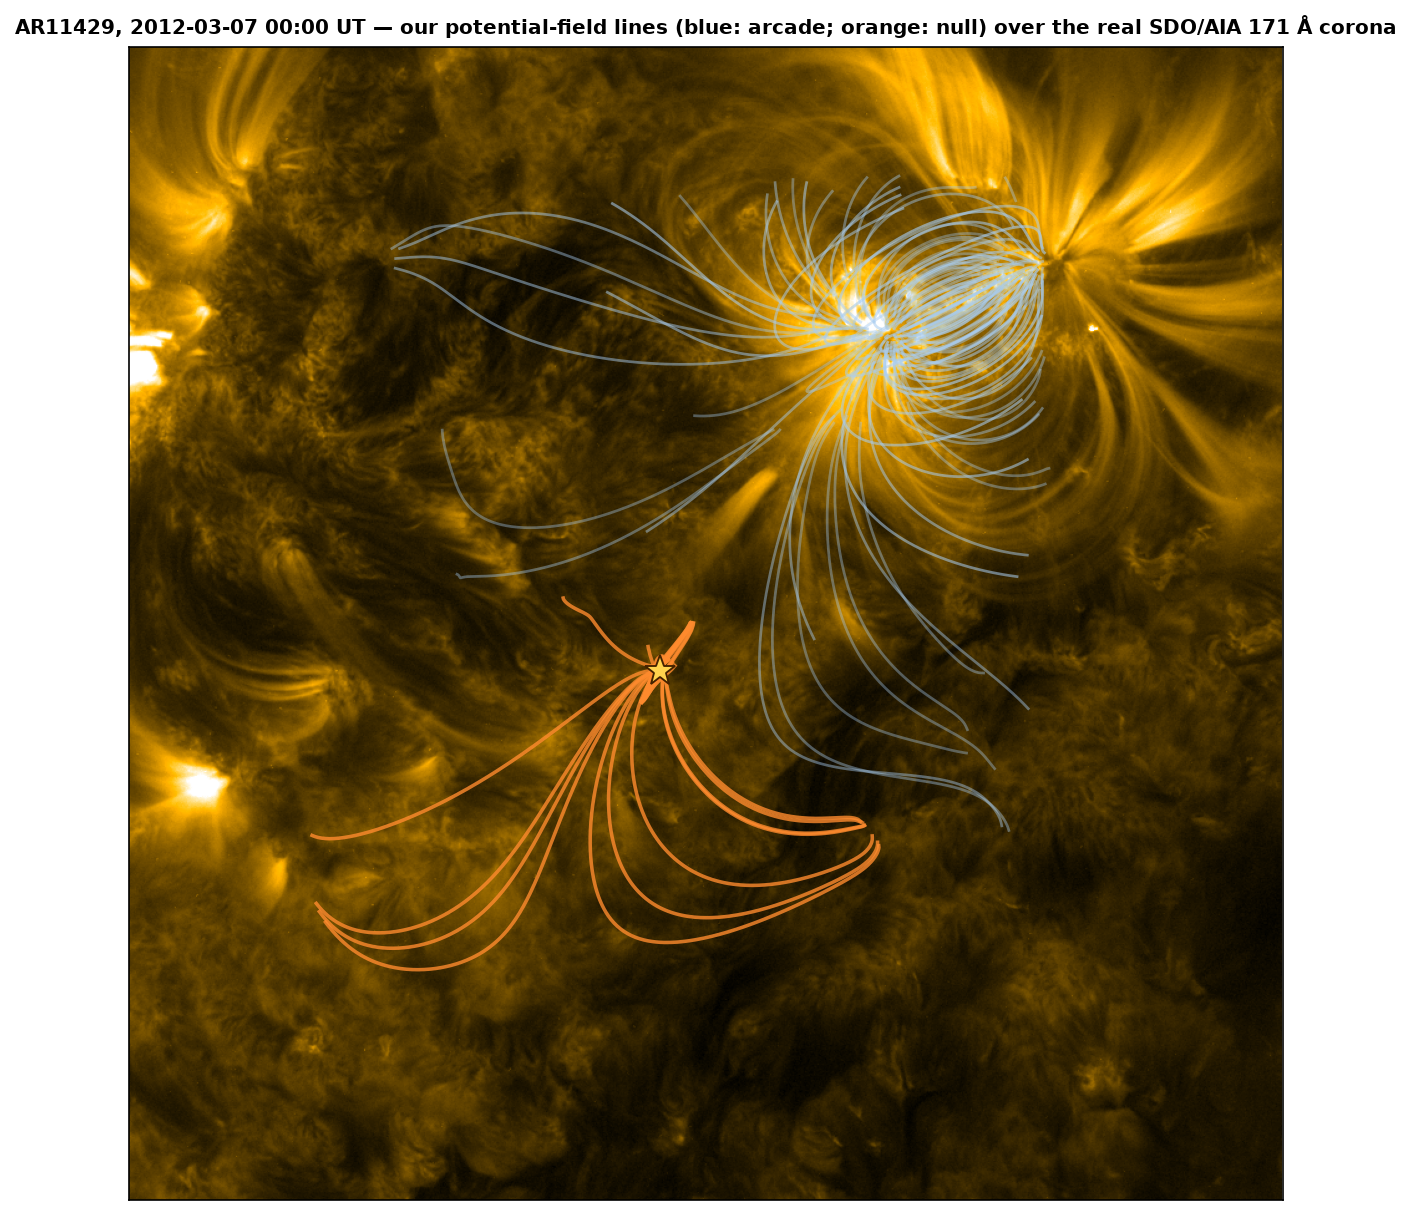
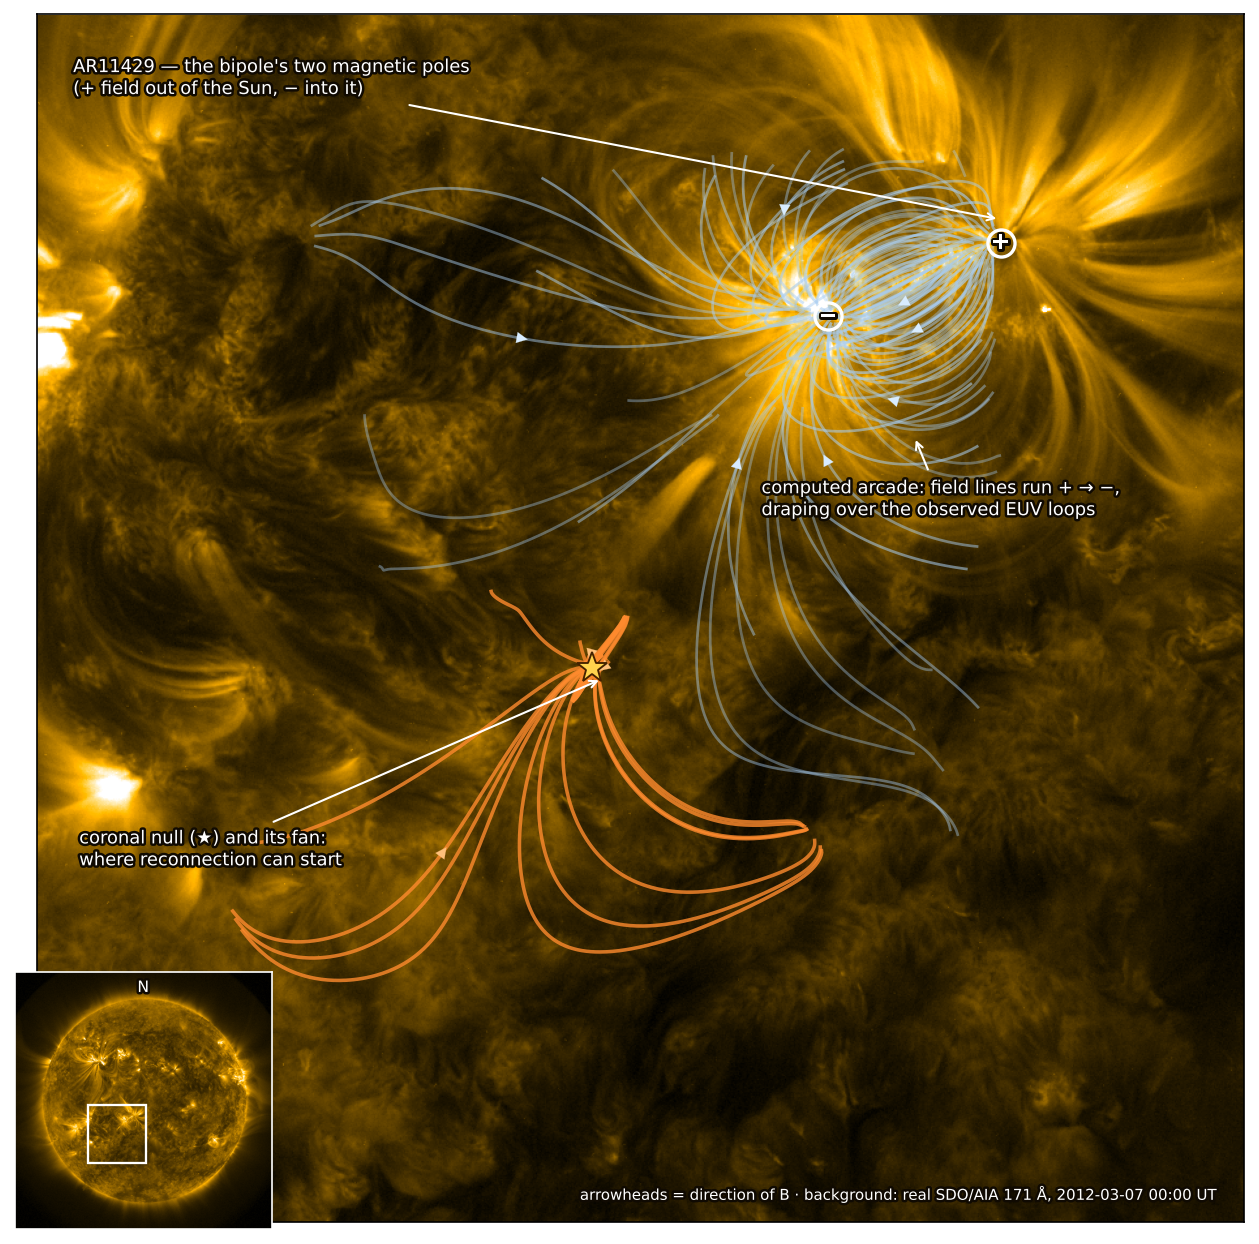
research+posts: informative pass -- poles, arrows, locator; skeleton lines re-rooted
Per user direction, four upgrades:
(1) SKELETON fixed: the arcade is traced in the flux-centred volume and
embedded through its own tangent map (make_embed is now parametric, one
anchor per window) -- the loops root ON the sunspot group instead of being
displaced by the null-centred window whose core flux sat at the edge.
(2) STATIC AIA OVERLAY made self-explanatory: in-plot title removed (the
caption below carries it); the bipole's two magnetic poles marked at their
flux-weighted centroids (circled +/-, + field out of the Sun); arrowheads on
a sample of lines giving the direction of B (running + to -); three leader
annotations (poles, arcade-vs-EUV-loops, the null and its fan as the place
reconnection can start); a full-disk locator inset showing where on the Sun
the frame sits (N up); micro-caption bottom-right.
(3) GIF: in-frame title removed (textual caption below suffices); light
poles and sparse field-direction arrows added -- deliberately less rich than
the static plot; timestamps and flare labels stay.
(4) The embedded YouTube video is gone; the GIF caption carries a footnote
link to the full cinematic sequence instead. Stray tag fixed; Part 6
validates (9/9 figures, no iframes).

diff --git a/research/preferred-directions/scripts/render_real_assets.py b/research/preferred-directions/scripts/render_real_assets.py
@@ -226,22 +226,27 @@ def skeleton(fast=False):
     true height scale), field lines occlusion-culled, null close-up inset."""
     from scipy.ndimage import zoom, map_coordinates, gaussian_filter
     bz = dict(load_magnetograms())["2012-03-07"]
-    # null-recentered survey volume: the null sits mid-box, so its lines have room
-    # in every direction before the honest wall fade (see _ar11429_volume)
+    # TWO volumes, like the AIA overlay: the null and its fan live in the
+    # null-recentred window; the arcade is traced in the FLUX-centred window so its
+    # loops root on the sunspot group itself (seeding the arcade in the null window
+    # put the core flux at the window edge and displaced the loops)
     cut, B, nulls, p0, (cy, cx) = _ar11429_volume()
     ny, nx, nz, _ = B.shape
+    cyf, cxf = 640, 640
+    cutf = zoom(bz[cyf - WIN // 2:cyf + WIN // 2, cxf - WIN // 2:cxf + WIN // 2],
+                CUT / WIN, order=1)
+    Bf, _Af = solar.potential_field(cutf, NZ, dz=1.0)
     print(f"skeleton null at {np.round(p0, 1)} of {len(nulls)} in the volume")
 
     # ---- traces in box coords (x, y in CUT px; z in CUT px of height) ------------
     rng = np.random.default_rng(2)
-    thr = np.percentile(np.abs(cut), 93.0)
-    iy, ix = np.where(np.abs(cut) >= thr)
-    w = np.abs(cut)[iy, ix]
+    iy, ix = np.where(np.abs(cutf) >= 250.0)
+    w = np.abs(cutf)[iy, ix]
     sel = rng.choice(len(ix), size=min(170, len(ix)), replace=False, p=w / w.sum())
     arcade = []
     for j in sel:
-        sgn = +1.0 if cut[iy[j], ix[j]] > 0 else -1.0
-        ln = _trace(B, np.array([ix[j], iy[j], 1.5]), sgn, ds=0.35, steps=1600)
+        sgn = +1.0 if cutf[iy[j], ix[j]] > 0 else -1.0
+        ln = _trace(Bf, np.array([ix[j], iy[j], 1.5]), sgn, ds=0.35, steps=1600)
         if len(ln) > 10:
             arcade.append((ln, w[j] / w.max()))
     skel = []
@@ -256,22 +261,29 @@ def skeleton(fast=False):
     ys, xs = np.where(np.abs(bz) > 0)
     cy0, cx0 = (ys.min() + ys.max()) / 2, (xs.min() + xs.max()) / 2
     Rpx = ((ys.max() - ys.min()) + (xs.max() - xs.min())) / 4
-    n0 = np.array([(cx - cx0) / Rpx, (cy - cy0) / Rpx, 0.0])
-    n0[2] = np.sqrt(1 - n0[0] ** 2 - n0[1] ** 2)
-    e1 = np.array([1.0, 0, 0]) - n0[0] * n0; e1 /= np.linalg.norm(e1)
-    e2 = np.array([0, 1.0, 0]) - n0[1] * n0 - (e1[1]) * e1; e2 /= np.linalg.norm(e2)
     sig = (WIN / CUT) / Rpx                       # radians (=R units) per CUT px
 
-    def embed(P):
-        """Box points (n,3) -> sphere frame via the exponential map at n0."""
-        P = np.atleast_2d(P)
-        a = (P[:, 0] - (nx - 1) / 2) * sig
-        b = (P[:, 1] - (ny - 1) / 2) * sig
-        rho = np.hypot(a, b)
-        s = np.where(rho > 1e-12, np.sin(rho) / np.maximum(rho, 1e-12), 1.0)
-        nhat = (np.cos(rho)[:, None] * n0 +
-                s[:, None] * (a[:, None] * e1 + b[:, None] * e2))
-        return (1.0 + P[:, 2] * sig)[:, None] * nhat
+    def make_embed(cxw, cyw):
+        """Tangent/exponential-map embed anchored at window (cxw, cyw)."""
+        nw = np.array([(cxw - cx0) / Rpx, (cyw - cy0) / Rpx, 0.0])
+        nw[2] = np.sqrt(1 - nw[0] ** 2 - nw[1] ** 2)
+        ew1 = np.array([1.0, 0, 0]) - nw[0] * nw; ew1 /= np.linalg.norm(ew1)
+        ew2 = np.array([0, 1.0, 0]) - nw[1] * nw - ew1[1] * ew1
+        ew2 /= np.linalg.norm(ew2)
+
+        def emb(P):
+            P = np.atleast_2d(P)
+            a = (P[:, 0] - (CUT - 1) / 2) * sig
+            b = (P[:, 1] - (CUT - 1) / 2) * sig
+            rho = np.hypot(a, b)
+            s = np.where(rho > 1e-12, np.sin(rho) / np.maximum(rho, 1e-12), 1.0)
+            nhat = (np.cos(rho)[:, None] * nw +
+                    s[:, None] * (a[:, None] * ew1 + b[:, None] * ew2))
+            return (1.0 + P[:, 2] * sig)[:, None] * nhat
+        return emb, nw
+
+    embed, n0 = make_embed(cx, cy)                # null window (fan, star, inset)
+    embedF, _n0f = make_embed(cxf, cyf)           # flux window (arcade)
 
     # ---- figure -------------------------------------------------------------------
     # NB (matplotlib 3.11): Axes3D clips artists to its centred square viewport, and
@@ -344,7 +356,7 @@ def skeleton(fast=False):
     # field lines (occlusion-culled, ends fading out, bundles dimming toward the
     # artificial box walls so shared exits cannot stack back into a hard cut)
     for ln, wgt in arcade:
-        _plot_faded(ax, embed(ln), d, color=ARC, lw=1.0 + 1.2 * wgt,
+        _plot_faded(ax, embedF(ln), d, color=ARC, lw=1.0 + 1.2 * wgt,
                     alpha=0.40 + 0.35 * wgt, zorder=3,
                     wpt=_edge_weight(ln, nx, ny, nz))
     for ln in skel:
@@ -685,14 +697,14 @@ def aia_overlay():
         sgn = +1.0 if cutf[iy[j], ix[j]] > 0 else -1.0
         ln = _trace(Bf, np.array([ix[j], iy[j], 1.5]), sgn, ds=0.35, steps=1600)
         if len(ln) > 10:
-            arcade.append((ln, w[j] / w.max()))
+            arcade.append((ln, w[j] / w.max(), sgn))
     skel = []
     for _ in range(22):
         u = rng.standard_normal(3); u /= np.linalg.norm(u)
         for sgn in (+1.0, -1.0):
             ln = _trace(B, p0 + 1.2 * u, sgn, ds=0.3, steps=2600)
             if len(ln) > 8:
-                skel.append(ln)
+                skel.append((ln, sgn))
 
     def box_to_aia(ln, cyw=None, cxw=None):
         """Box coords (cut px + height) -> AIA px, incl. line-of-sight parallax."""
@@ -715,24 +727,85 @@ def aia_overlay():
     x_lo, y_lo = int(ax0 - half), int(ay0 - half)
     crop = aia[y_lo:y_lo + 2 * half, x_lo:x_lo + 2 * half]
 
-    fig, ax = plt.subplots(figsize=(8.6, 8.2), dpi=150)
+    import matplotlib.patheffects as pe
+    OUTLINE = [pe.withStroke(linewidth=2.4, foreground="#100a02")]
+
+    fig, ax = plt.subplots(figsize=(8.6, 8.35), dpi=150)
     vmax = np.percentile(crop, 99.85)
     ax.imshow(np.clip(crop, 0, vmax) ** 0.5, origin="lower", cmap="sdoaia171")
     ax.set_xticks([]); ax.set_yticks([])
-    for ln, wgt in arcade:
+
+    def field_arrow(xs, ys, sgn, color, idx_frac=0.45):
+        """A small arrowhead ON the line, oriented along the FIELD direction."""
+        i = int(idx_frac * (len(xs) - 4)) + 2
+        i2 = i + 3 if sgn > 0 else i - 3
+        if not (0 <= i2 < len(xs)):
+            return
+        ax.annotate("", xy=(xs[i2], ys[i2]), xytext=(xs[i], ys[i]),
+                    arrowprops=dict(arrowstyle="-|>", color=color, lw=0.1,
+                                    mutation_scale=13), zorder=5)
+
+    for q, (ln, wgt, sgn) in enumerate(arcade):
         xa, ya = box_to_aia(ln, cyf, cxf)
-        ax.plot(xa - x_lo, ya - y_lo, color="#a9cdf0", lw=1.3,
-                alpha=0.30 + 0.40 * wgt)
-    for ln in skel:
+        xs, ys = xa - x_lo, ya - y_lo
+        ax.plot(xs, ys, color="#a9cdf0", lw=1.3, alpha=0.30 + 0.40 * wgt)
+        if q % 18 == 3:                                # a few field-direction arrows
+            field_arrow(xs, ys, sgn, "#d8ecff")
+    for q, (ln, sgn) in enumerate(skel):
         xa, ya = box_to_aia(ln)
-        ax.plot(xa - x_lo, ya - y_lo, color="#ff8b2e", lw=1.7, alpha=0.8)
+        xs, ys = xa - x_lo, ya - y_lo
+        ax.plot(xs, ys, color="#ff8b2e", lw=1.7, alpha=0.8)
+        if q % 14 == 5:
+            field_arrow(xs, ys, sgn, "#ffc07a")
     xn, yn = box_to_aia(p0[None, :])
     ax.plot(xn - x_lo, yn - y_lo, marker="*", ms=15, mfc="#ffd34d",
-            mec="#442200", mew=0.9)
+            mec="#442200", mew=0.9, zorder=6)
+
+    # the bipole's magnetic poles: flux-weighted centroids of the strong field
+    def pole_centroid(mask):
+        yy, xx = np.nonzero(mask)
+        ww = np.abs(cutf)[yy, xx]
+        pts = np.column_stack([xx.astype(float), yy.astype(float),
+                               np.zeros(len(xx))])
+        xa, ya = box_to_aia(pts, cyf, cxf)
+        return (float(np.average(xa, weights=ww)) - x_lo,
+                float(np.average(ya, weights=ww)) - y_lo)
+    px_, py_ = pole_centroid(cutf > 800)
+    nx_, ny_ = pole_centroid(cutf < -800)
+    for (qx, qy, s_) in ((px_, py_, "+"), (nx_, ny_, "−")):
+        ax.plot(qx, qy, marker="o", ms=13, mfc="none", mec="white", mew=1.6, zorder=7)
+        ax.text(qx, qy, s_, color="white", fontsize=11, fontweight="bold",
+                ha="center", va="center", zorder=8, path_effects=OUTLINE)
+
+    # annotations
+    ann = dict(color="white", fontsize=8.6, path_effects=OUTLINE, zorder=9,
+               arrowprops=dict(arrowstyle="->", color="white", lw=1.0))
+    ax.annotate("AR11429 — the bipole's two magnetic poles\n(+ field out of the Sun, "
+                "− into it)", xy=(px_, py_ + 18), xytext=(0.03, 0.965),
+                textcoords="axes fraction", va="top", **ann)
+    ax.annotate("computed arcade: field lines run + → −,\ndraping over the "
+                "observed EUV loops", xy=((px_ + nx_) / 2, (py_ + ny_) / 2 - 120),
+                xytext=(0.60, 0.585), textcoords="axes fraction", **ann)
+    ax.annotate("coronal null (★) and its fan:\nwhere reconnection can start",
+                xy=(float(xn[0] - x_lo) + 8, float(yn[0] - y_lo) - 8),
+                xytext=(0.035, 0.295), textcoords="axes fraction", **ann)
+    ax.text(0.985, 0.015, "arrowheads = direction of B · background: real "
+            "SDO/AIA 171 Å, 2012-03-07 00:00 UT",
+            transform=ax.transAxes, color="white", fontsize=7.2, ha="right",
+            va="bottom", path_effects=OUTLINE)
     ax.set_xlim(0, crop.shape[1]); ax.set_ylim(0, crop.shape[0])   # clamp to image
-    ax.set_title("AR11429, 2012-03-07 00:00 UT — our potential-field lines (blue: "
-                 "arcade; orange: null) over the real SDO/AIA 171 Å corona",
-                 fontsize=9.5, fontweight="bold")
+
+    # full-disk locator: where on the Sun we are
+    axl = fig.add_axes([0.012, 0.012, 0.205, 0.205])
+    disk = aia[::8, ::8]
+    axl.imshow(np.clip(disk, 0, vmax) ** 0.5, origin="lower", cmap="sdoaia171")
+    axl.add_patch(plt.Rectangle((x_lo / 8, y_lo / 8), crop.shape[1] / 8,
+                                crop.shape[0] / 8, fill=False, ec="white", lw=1.1))
+    axl.annotate("N", xy=(0.5, 0.97), xycoords="axes fraction", color="white",
+                 fontsize=7.5, ha="center", va="top", path_effects=OUTLINE)
+    axl.set_xticks([]); axl.set_yticks([])
+    for s_ in axl.spines.values():
+        s_.set_edgecolor("white"); s_.set_linewidth(0.8)
     fig.tight_layout()
     out = REPO / "public/img/posts/forbidden-directions-aia-overlay.png"
     fig.savefig(out, bbox_inches="tight", dpi=150)
@@ -875,10 +948,10 @@ def render_aia_gif():
             b = cutl[sy, sx]
             if abs(b) < 120.0:
                 continue
-            ln = _trace(Bl, np.array([sx, sy, 1.5]), +1.0 if b > 0 else -1.0,
-                        ds=0.4, steps=2000)
+            sgn_a = +1.0 if b > 0 else -1.0
+            ln = _trace(Bl, np.array([sx, sy, 1.5]), sgn_a, ds=0.4, steps=2000)
             if len(ln) > 10:
-                arcade.append((ln, min(abs(b) / 1200.0, 1.0), ln[-1, 2] < 1.2))
+                arcade.append((ln, min(abs(b) / 1200.0, 1.0), ln[-1, 2] < 1.2, sgn_a))
 
         # null: re-detect near the window centre, track identity
         nulls = [nl for nl in solar.find_nulls(Bn, seeds_per_axis=12)
@@ -908,7 +981,7 @@ def render_aia_gif():
                             if len(ln2) > 4:
                                 lnL = np.vstack([lnL, ln2])
                         closed = lnL[-1, 2] < 1.2      # reached the photosphere
-                        skel.append((lnL, closed))
+                        skel.append((lnL, closed, sgn))
         track.append({"t": tstamp, "found": null_ok,
                       "h_px": round(float(p0[2]), 1) if null_ok else None})
         print(f"frame {k+1}/{n_fr} {tstamp}  arcade {len(arcade)}  "
@@ -940,14 +1013,44 @@ def render_aia_gif():
         fig, ax = plt.subplots(figsize=(6.4, 6.55), dpi=100)
         ax.imshow(np.clip(crop, 0, vmax) ** 0.5, origin="lower", cmap="sdoaia171",
                   vmin=0, vmax=vmax ** 0.5)
-        for ln, wgt, closed in arcade:
+        def field_arrow(xs, ys, sgn_, color):
+            i = int(0.45 * (len(xs) - 4)) + 2
+            i2 = i + 3 if sgn_ > 0 else i - 3
+            if 0 <= i2 < len(xs):
+                ax.annotate("", xy=(xs[i2], ys[i2]), xytext=(xs[i], ys[i]),
+                            arrowprops=dict(arrowstyle="-|>", color=color, lw=0.1,
+                                            mutation_scale=10), zorder=5)
+
+        for q, (ln, wgt, closed, sgn_a) in enumerate(arcade):
             xa, ya = b2a(ln, cyl, cxl, winw=WINL)
-            _plot2d_faded(ax, xa - x_lo, ya - y_lo, "#a9cdf0", 1.0,
+            xs, ys = xa - x_lo, ya - y_lo
+            _plot2d_faded(ax, xs, ys, "#a9cdf0", 1.0,
                           0.25 + 0.35 * wgt, fade_end=not closed, zorder=2)
-        for lnL, closed in skel:
+            if q % 40 == 7:                          # sparse arrows (lighter than static)
+                field_arrow(xs, ys, sgn_a, "#d8ecff")
+        for q, (lnL, closed, sgn_f) in enumerate(skel):
             xa, ya = b2a(lnL, cyl, cxl, winw=WINL)
-            _plot2d_faded(ax, xa - x_lo, ya - y_lo, "#ff8b2e", 1.4, 0.8,
+            xs, ys = xa - x_lo, ya - y_lo
+            _plot2d_faded(ax, xs, ys, "#ff8b2e", 1.4, 0.8,
                           fade_end=not closed, zorder=3)
+            if q % 20 == 9:
+                field_arrow(xs, ys, sgn_f, "#ffc07a")
+
+        # the bipole's poles, lightly marked
+        for msk, s_ in ((cutl > 800, "+"), (cutl < -800, "−")):
+            yy, xx = np.nonzero(msk)
+            if len(xx) < 5:
+                continue
+            ww = np.abs(cutl)[yy, xx]
+            pts = np.column_stack([xx.astype(float), yy.astype(float),
+                                   np.zeros(len(xx))])
+            xa, ya = b2a(pts, cyl, cxl, winw=WINL)
+            qx = float(np.average(xa, weights=ww)) - x_lo
+            qy = float(np.average(ya, weights=ww)) - y_lo
+            ax.plot(qx, qy, marker="o", ms=9, mfc="none", mec="white", mew=1.1,
+                    zorder=6)
+            ax.text(qx, qy, s_, color="white", fontsize=8, fontweight="bold",
+                    ha="center", va="center", zorder=7)
         if null_ok:
             xn_, yn_ = b2a(p0[None, :], cyn, cxn)
             ax.plot(xn_ - x_lo, yn_ - y_lo, marker="*", ms=13, mfc="#ffd34d",
@@ -963,8 +1066,6 @@ def render_aia_gif():
         elif 70 <= mins <= 80:
             ax.text(0.02, 0.925, "X1.3 flare", transform=ax.transAxes,
                     color="#ff6644", fontsize=11, va="top", fontweight="bold")
-        ax.set_title("skeleton re-extrapolated from each frame's own HMI magnetogram",
-                     fontsize=8.6)
         fig.tight_layout(pad=0.4)
         buf = io.BytesIO()
         fig.savefig(buf, format="png", dpi=100)

diff --git a/_posts/2026-08-27-forbidden-directions-transition-state.md b/_posts/2026-08-27-forbidden-directions-transition-state.md
@@ -79,7 +79,10 @@ numerical zero test with no scale attached. The growth vector has a *law* for it
     <strong>The corona computed, over the corona seen.</strong> The real EUV corona of
     AR11429 at the same hour — SDO/AIA 171 Å, million-kelvin plasma lighting up the true
     field lines — with <em>our</em> potential-field extrapolation drawn on top (blue: the
-    arcade; orange: the null's spine and fan, ★ the null). The two datasets are
+    arcade; orange: the null's spine and fan, ★ the null). The circled <strong>+/−</strong>
+    mark the bipole's two magnetic poles (flux-weighted centroids of the measured surface
+    field); arrowheads give the direction of $\mathbf B$, running + → −; the inset shows
+    where on the full solar disk this frame sits (N up). The two datasets are
     independent: AIA sees plasma, HMI measured the surface field the extrapolation grew
     from — and cross-registering them required correcting HMI's 180° camera rotation
     (CROTA2) against AIA's upright frame, with the disk geometry taken from the FITS
@@ -117,24 +120,11 @@ numerical zero test with no scale attached. The growth vector has a *law* for it
     reach the photosphere (crisp) or the edge of the modelled region (fading). Frames
     exposure-normalised, per-frame FITS registration. Pipeline: <code>fetch_aia_seq.py</code> + <code>fetch_hmi_seq.py</code>
     + <code>render_aia_gif</code>; null track in
-    <code>artifacts/aia_gif_null_track.json</code>. Pipeline:
+    <code>artifacts/aia_gif_null_track.json</code>. <em>Footnote:</em> the full
+    cinematic sequence of this region is on YouTube —
+    <a href="https://www.youtube.com/watch?v=4qIV1iPUOxY">AR11429 2012-03-07,
+    SDO/AIA 171 Å</a> (NASA SDO footage). Pipeline:
     <code>scripts/fetch_aia_seq.py</code> + <code>render_aia_gif</code>.
-  </figcaption>
-</figure>
-
-<figure class="l-body" id="fig-aia-video">
-  <div style="position:relative;width:100%;padding-bottom:56.25%;height:0;overflow:hidden;border-radius:4px;">
-    <iframe src="https://www.youtube-nocookie.com/embed/4qIV1iPUOxY"
-      title="AR11429 2012-03-07 SDO/AIA 171 Å"
-      style="position:absolute;top:0;left:0;width:100%;height:100%;border:0;"
-      loading="lazy" allowfullscreen></iframe>
-  </div>
-  <figcaption>
-    <strong>The same region, alive.</strong> SDO/AIA 171 Å footage of AR11429 on
-    2012-03-07 — the day of the frames above. Watch the loop systems writhe and
-    brighten: every filament is a field line rendered in plasma, and the topology those
-    posts compute is the skeleton this movie moves on. Footage: NASA SDO/AIA
-    (video compilation by sscardigli).
   </figcaption>
 </figure>
 
